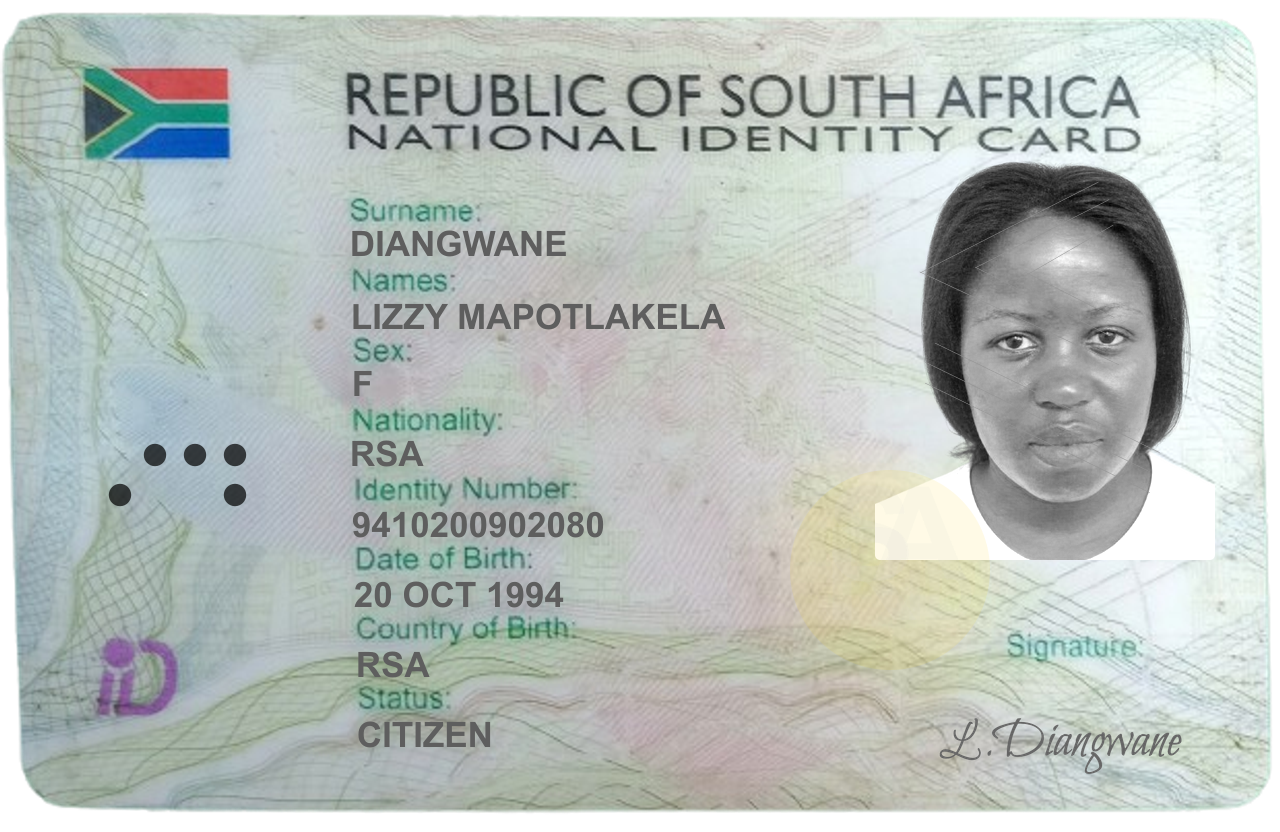
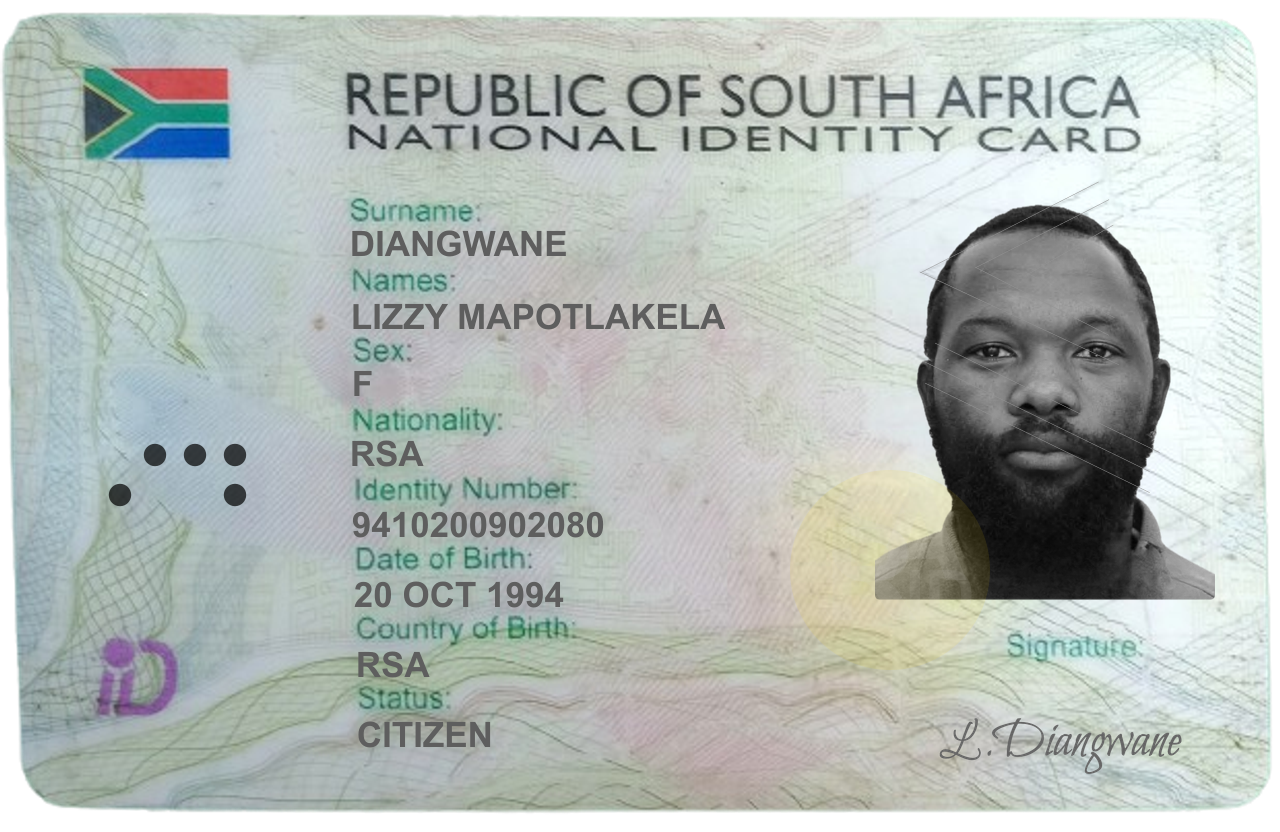
with ID enhancement and gender selection

Changed region(s): [[0.6562, 0.1875, 0.9688, 0.7188]]

diff --git a/src/handlers/ids/index.ts b/src/handlers/ids/index.ts
@@ -83,7 +83,7 @@ export const generateIdImage = async (idInfo: IdInfo, outputPath: string, photoB
         .toBuffer();
     const mask = Buffer.from(
         `<svg width="340" height="450">
-           <rect x="0" y="0" width="340" height="400" rx="5" ry="5" />
+           <rect x="0" y="0" width="340" height="450" rx="5" ry="5" />
          </svg>`
     );
     const photoBufferProcessed = await sharp(usedPhotoBuffer)
@@ -113,7 +113,7 @@ export const generateIdImage = async (idInfo: IdInfo, outputPath: string, photoB
             { input: Buffer.from(date_of_birth), top: 355, left: 63 + 4 },
             { input: Buffer.from(country_of_birth), top: 425, left: 63 + 6 },
             { input: Buffer.from(status), top: 495, left: 63 + 7 },
-            { input: photoBufferProcessed, top: 160, left: 875 },
+            { input: photoBufferProcessed, top: 150, left: 875 },
             { input: signBuffer, top: 700, left: 900 },
             //{ input: holoBuffer, top: 235, left: 1120 },
             { input: Buffer.from(circleSvg), top: 0, left: 0 },
